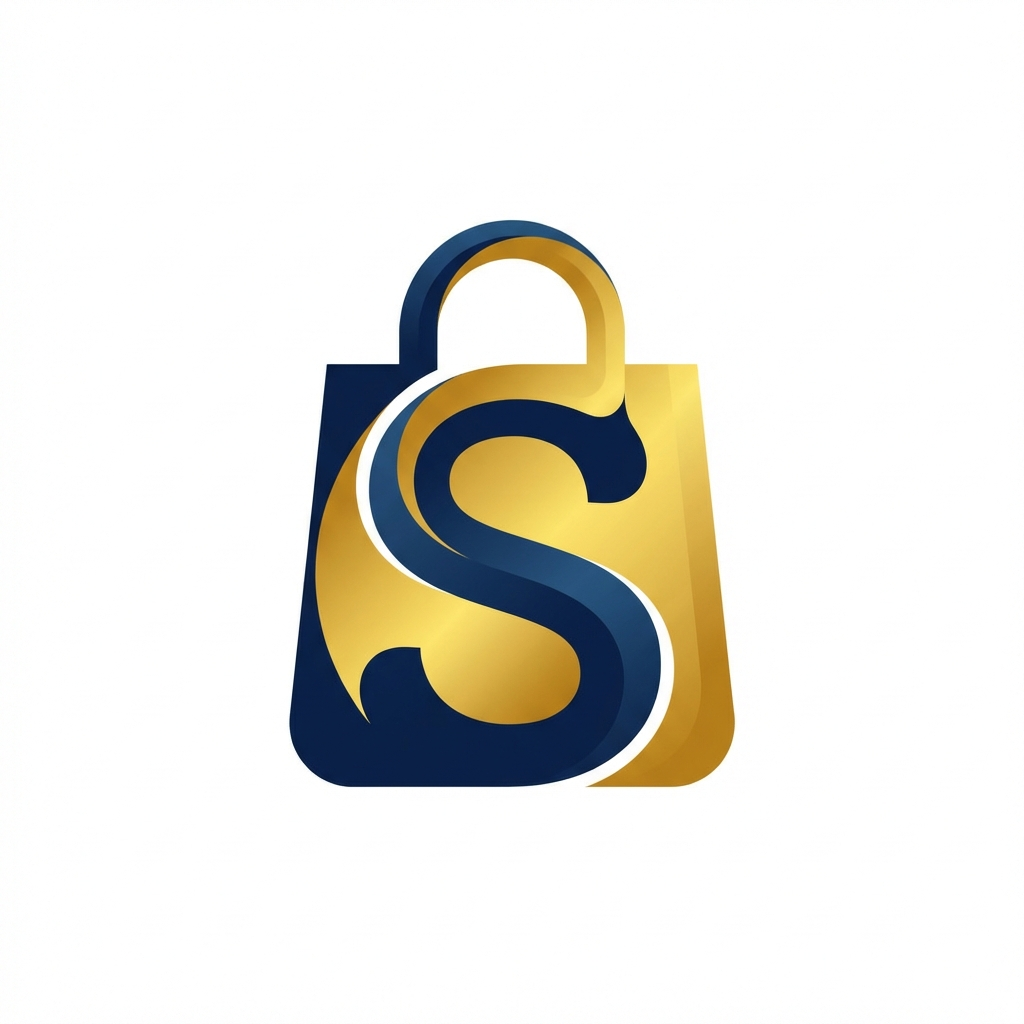
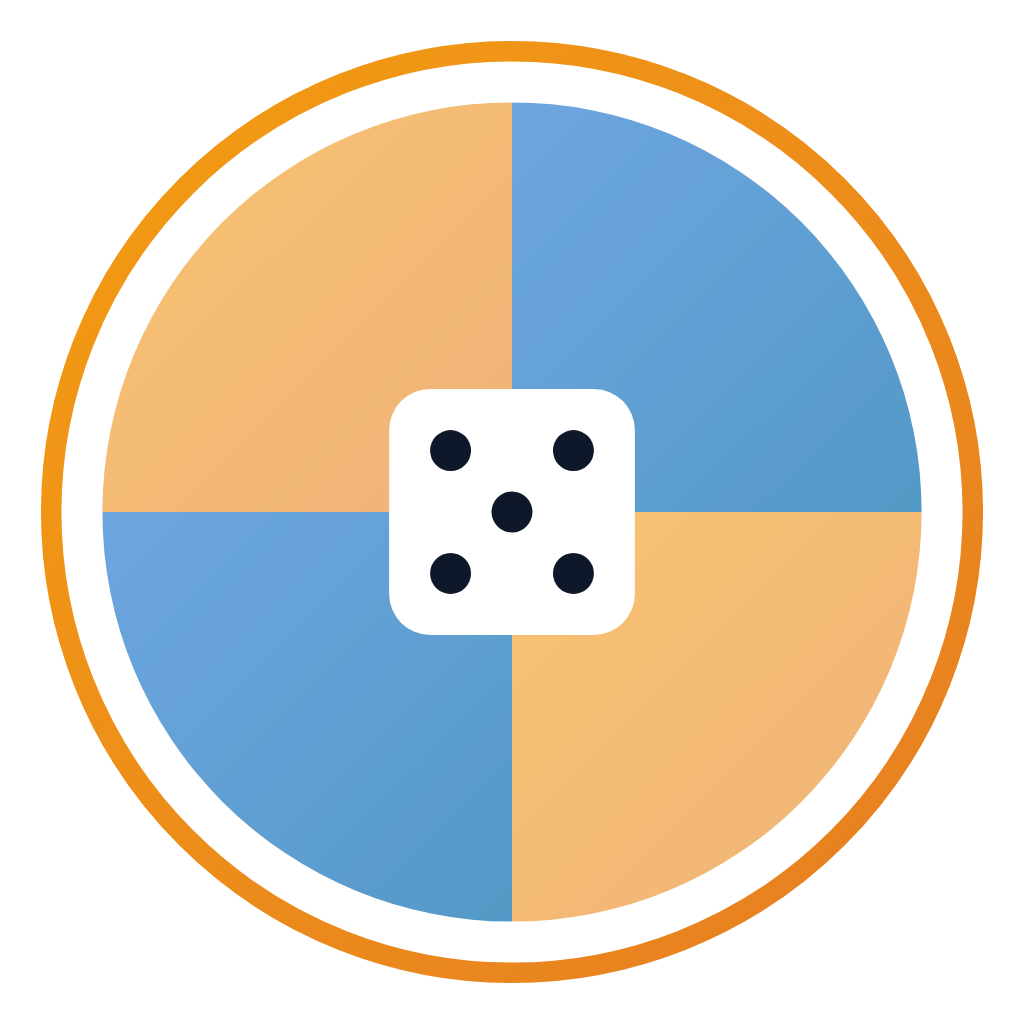
u assets

diff --git a/webpack.config.js b/webpack.config.js
@@ -10,7 +10,7 @@ module.exports = {
   output: {
     path: path.join(__dirname, './build'),
     filename: 'index_bundle.js',
-    publicPath: process.env.NODE_ENV === 'production' ? '/Plombier/' : '/',
+    publicPath: process.env.NODE_ENV === 'production' ? '/LoyalSpin/' : '/',
     clean: true,
   },
   devServer: {